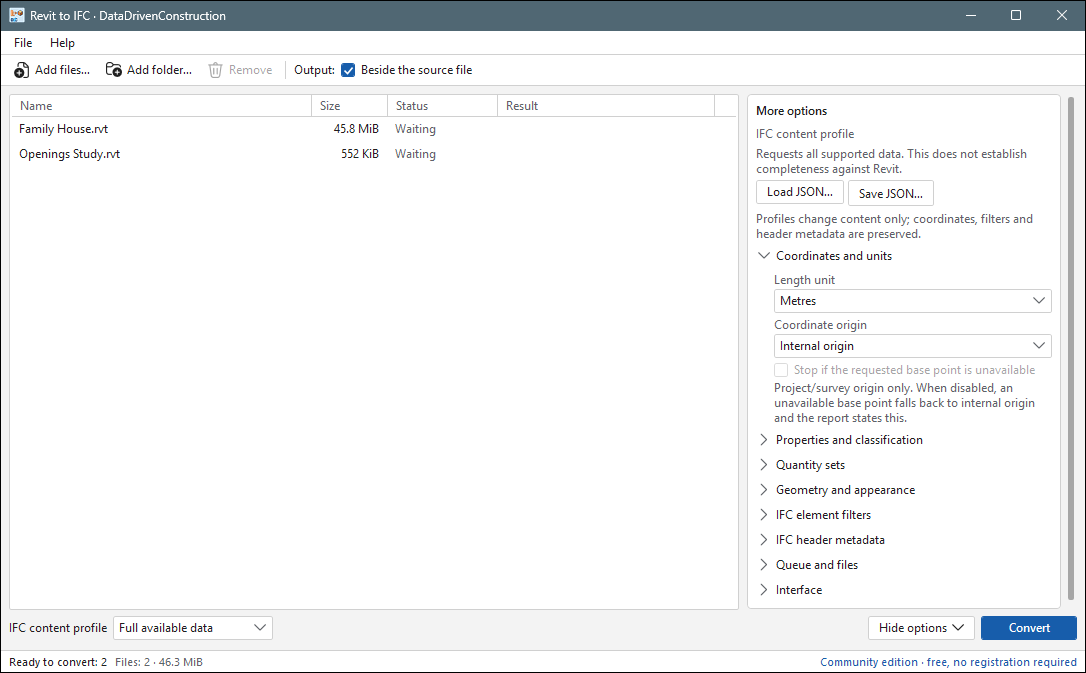
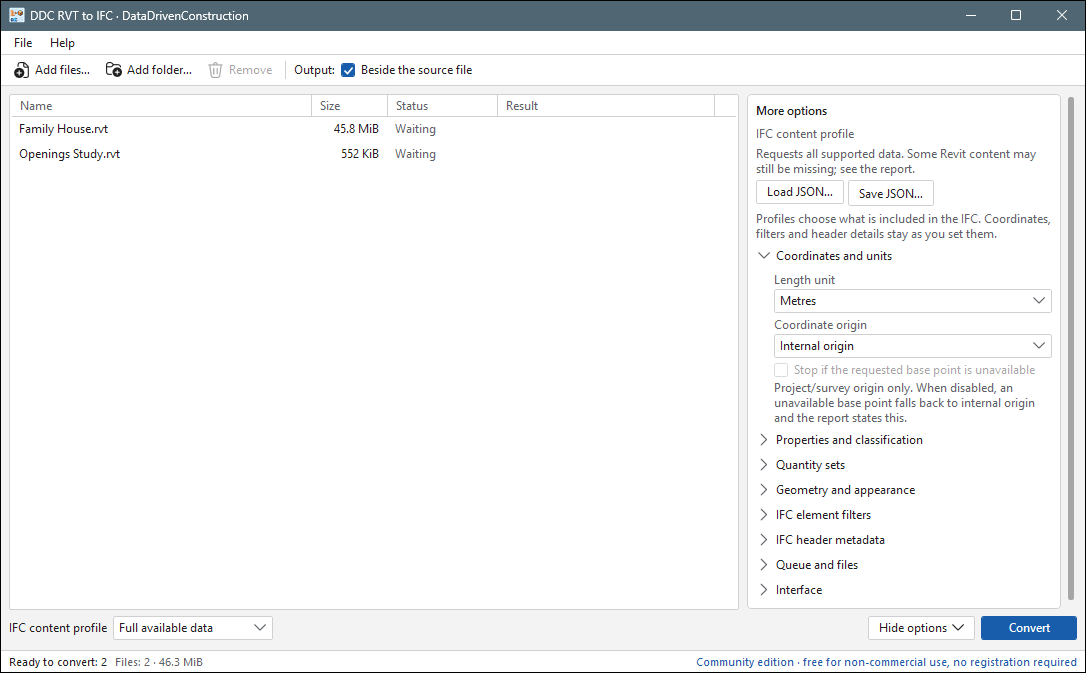
RVT to IFC and RVT Converter: screenshots on 2.0.1, About with licence

diff --git a/DDC_WINDOWS_Converters/DDC_RVT_to_IFC/README.md b/DDC_WINDOWS_Converters/DDC_RVT_to_IFC/README.md
@@ -47,8 +47,9 @@ For every model, the app creates a folder next to it (for example `Family House.
 5. **Open the result.** When the status says *Written*, click **Open output** in the status bar, or right-click the file
    and choose **Open folder**.
 
-   ![Finished conversion with the result folder name](../../docs/images/rvt-to-ifc-done.png)
-   *Done: the IFC file, the spreadsheet and the 3D model are in the folder shown under Result.*
+   ![Finished conversion of two models](../../docs/images/rvt-to-ifc-done.png)
+   _Done: each model has its own result folder. **With gaps** means the file was written and the report lists a few
+   elements worth a look — click **What to check** to see them._
 
 ## Look at the result
 
@@ -90,6 +91,9 @@ cli\RVTconverter.exe "C:\Projects\House\Family House.rvt" --ifc --ifc-units mm -
 **Is it free?** Yes, for non-commercial use: learning, research, teaching and personal projects.
 Using it in paid work, for clients, or inside a company product needs a commercial licence —
 write to [info@datadrivenconstruction.io](mailto:info@datadrivenconstruction.io). Full terms: [EULA](../../EULA.md).
+
+![About window with version and licence](../../docs/images/rvt-to-ifc-about.png)
+*Help → About shows the version and the licence.*
 
 **Which Windows?** Windows 10 or 11, 64-bit. The portable version runs from any folder, even a USB stick.
 
